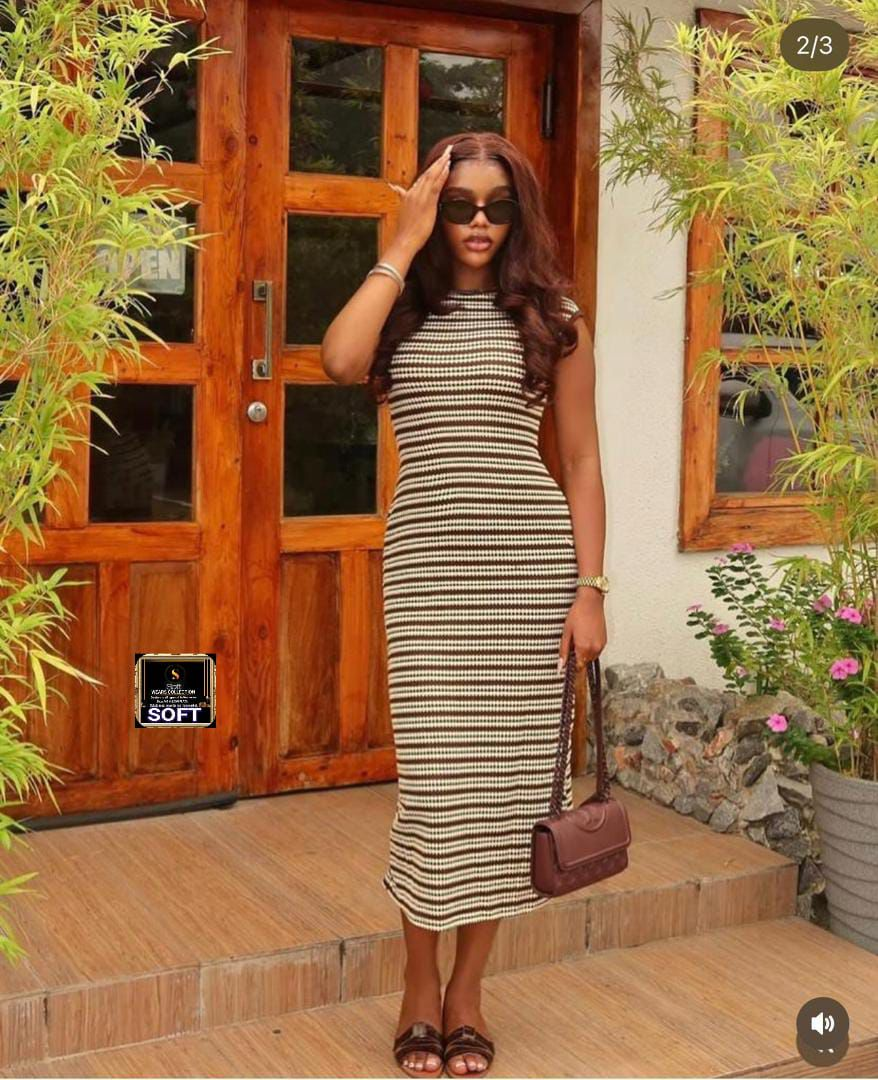
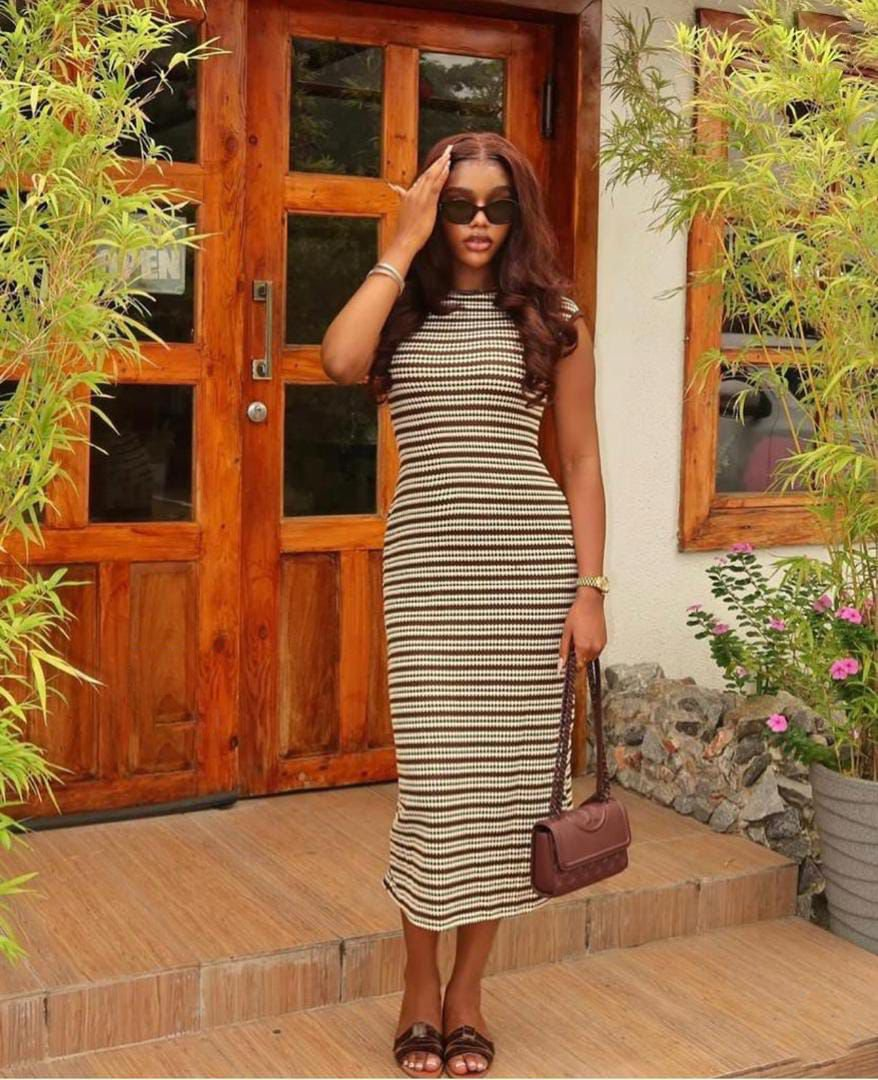
updated products images

Changed region(s): [[0.861, 0.0, 0.9841, 0.0917], [0.1538, 0.5806, 0.246, 0.6722], [0.8918, 0.9167, 0.9841, 1.0]]

diff --git a/src/data/MockData.js b/src/data/MockData.js
@@ -181,7 +181,7 @@ export const LatestProducts = [
         title:"Trendy gown available",
         price:"9,500",
         oldPrice: "39.99",
-        image:"/images/Trendy-gown.jpeg",
+        image:"/images/Trendy-gown.png",
         category:"New Arrival"
     },
     {
